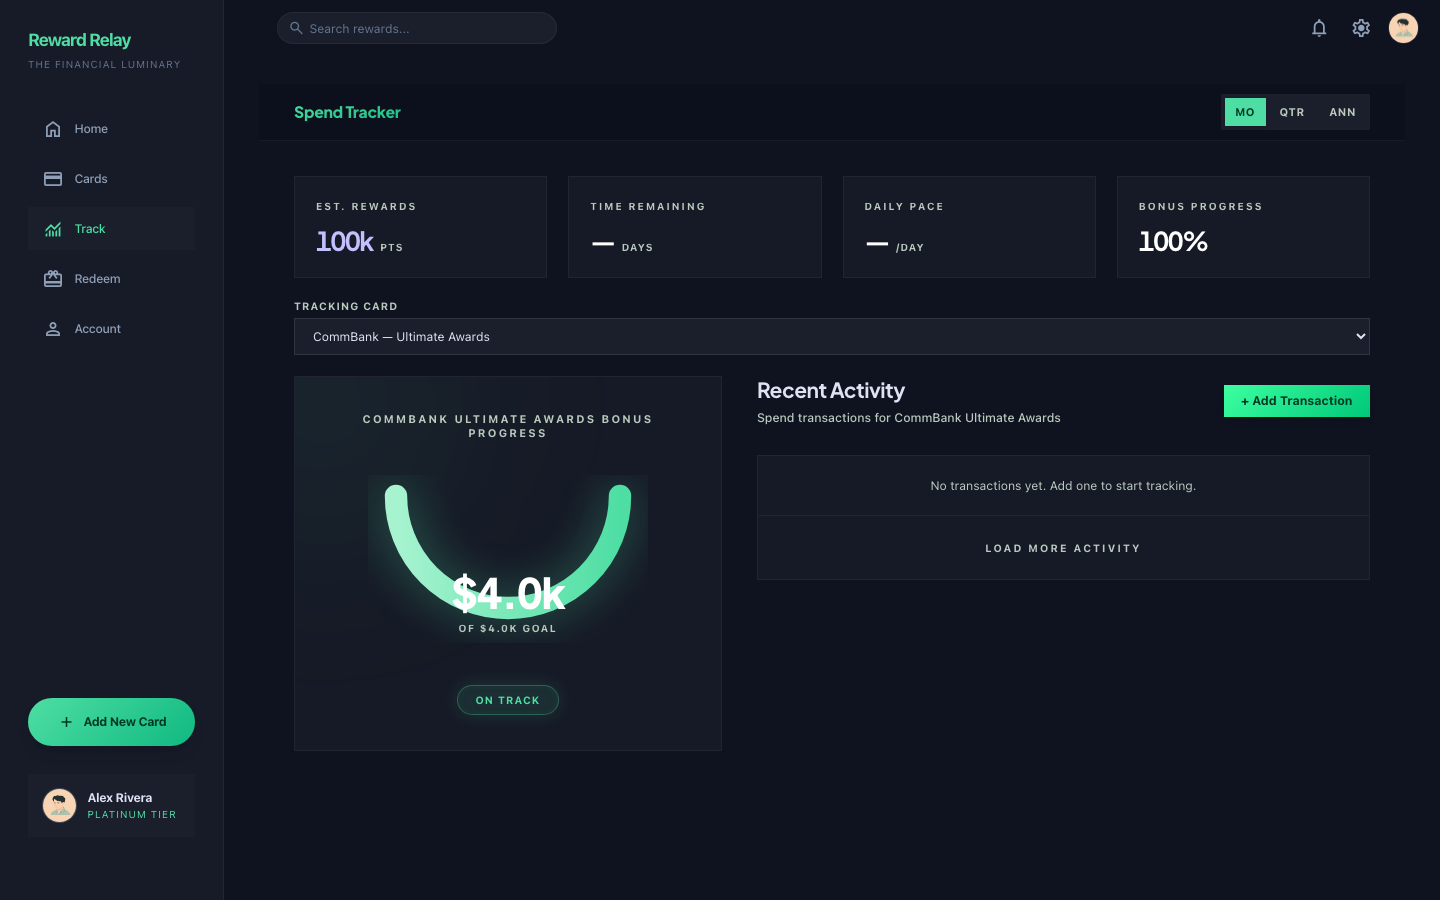
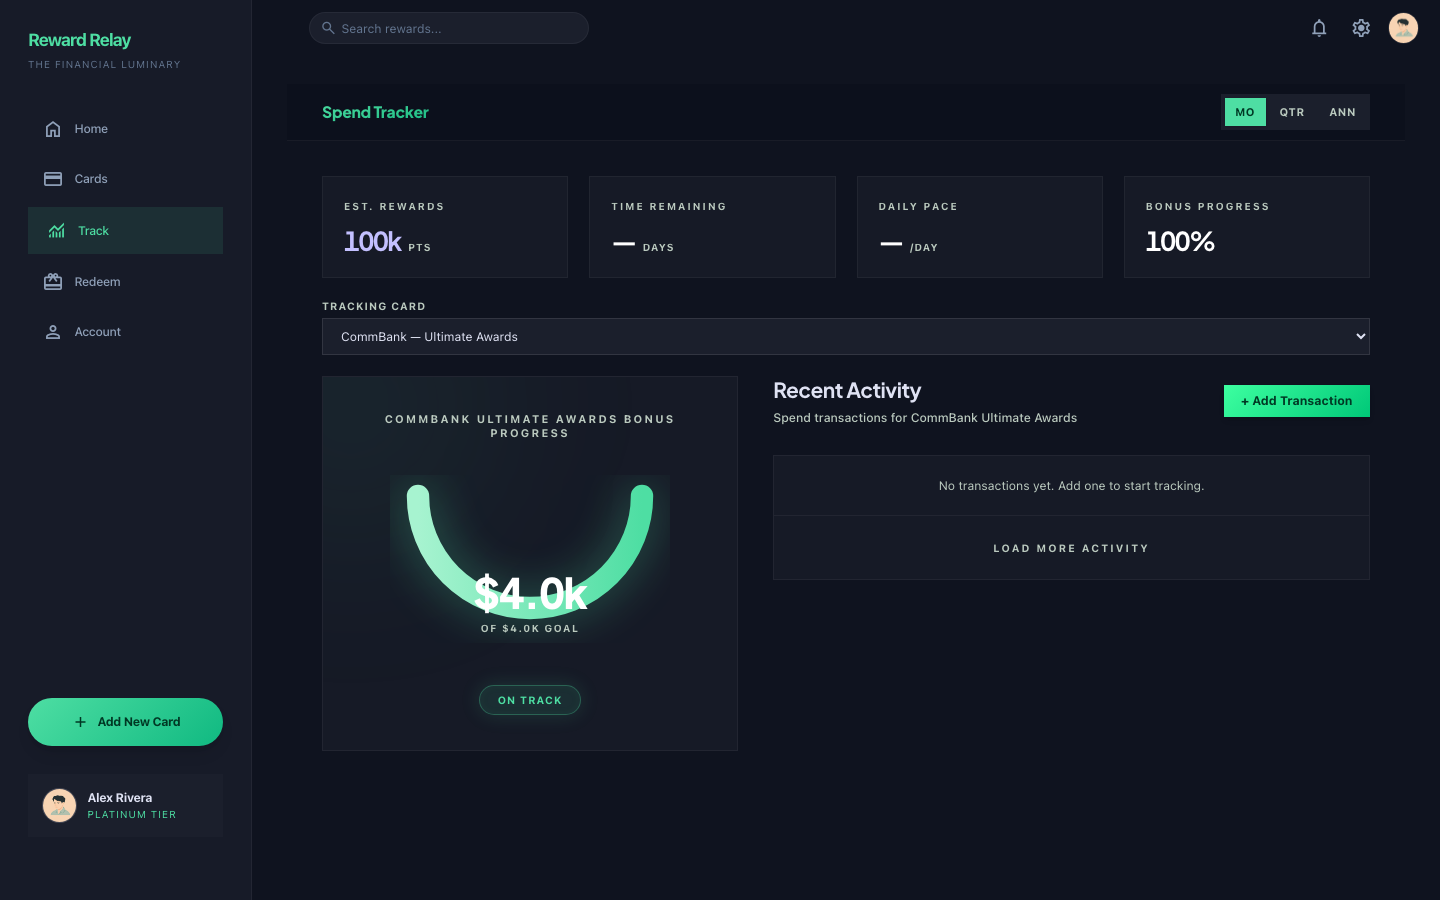
fix(spending): thinner arc strokes for elegant gauge appearance (#269)
* fix(spending): reduce arc stroke widths for elegant appearance

Desktop semicircle arc: track 6→3, fill 8→4
Mobile circular arc: track 10→5, fill 10→6, hover 12→7

* chore(screenshots): add PR review screenshots for spending, spending-mobile

---------

diff --git a/app/src/app/spending/page.tsx b/app/src/app/spending/page.tsx
@@ -67,8 +67,8 @@ function SpendArc({ spent, target }: { spent: number; target: number }) {
     >
       <style>{`
         .progress-arc-container:hover .progress-arc-path {
-          stroke-width: 12 !important;
-          filter: drop-shadow(0 0 12px rgba(78,222,163,0.6));
+          stroke-width: 7 !important;
+          filter: drop-shadow(0 0 10px rgba(78,222,163,0.6));
         }
         .progress-arc-container:hover .progress-center-amount {
           text-shadow: 0 0 15px rgba(255,255,255,0.2);
@@ -87,7 +87,7 @@ function SpendArc({ spent, target }: { spent: number; target: number }) {
           r={RADIUS}
           fill="none"
           stroke="rgba(255,255,255,0.1)"
-          strokeWidth={6}
+          strokeWidth={5}
           strokeDasharray={`${ARC_LENGTH} ${CIRCUMFERENCE - ARC_LENGTH}`}
           strokeLinecap="round"
           transform={`rotate(${rotation} ${center} ${center})`}
@@ -100,7 +100,7 @@ function SpendArc({ spent, target }: { spent: number; target: number }) {
           r={RADIUS}
           fill="none"
           stroke="#4edea3"
-          strokeWidth={8}
+          strokeWidth={6}
           strokeDasharray={`${filledLength} ${CIRCUMFERENCE - filledLength}`}
           strokeLinecap="round"
           transform={`rotate(${rotation} ${center} ${center})`}
@@ -537,18 +537,18 @@ export default function SpendingTrackerPage() {
                           <path
                             d="M 10 50 A 40 40 0 0 1 90 50"
                             fill="none"
-                            opacity="0.6"
-                            stroke="#262a37"
+                            opacity="0.5"
+                            stroke="rgba(255,255,255,0.08)"
                             strokeLinecap="round"
-                            strokeWidth="6"
+                            strokeWidth="3"
                           />
                           <path
                             d="M 10 50 A 40 40 0 0 1 90 50"
                             fill="none"
-                            stroke="#313442"
-                            strokeDasharray="0.5 7.5"
+                            stroke="rgba(255,255,255,0.04)"
+                            strokeDasharray="0.3 5"
                             strokeLinecap="round"
-                            strokeWidth="6"
+                            strokeWidth="3"
                           />
                           {(() => {
                             // Total arc path length for "M 10 50 A 40 40 0 0 1 90 50" ≈ 125.66
@@ -565,7 +565,7 @@ export default function SpendingTrackerPage() {
                                 stroke="url(#arc-gradient-spend)"
                                 strokeDasharray={`${filled} ${totalLen - filled}`}
                                 strokeLinecap="round"
-                                strokeWidth="8"
+                                strokeWidth="4"
                                 style={{ transition: "stroke-dasharray 600ms ease-out" }}
                               />
                             )
@@ -577,7 +577,7 @@ export default function SpendingTrackerPage() {
                             </linearGradient>
                           </defs>
                         </svg>
-                        <div className="absolute bottom-0 inset-x-0 flex flex-col items-center pb-2">
+                        <div className="absolute inset-x-0 top-[42%] -translate-y-1/2 flex flex-col items-center">
                           <span className="text-5xl font-headline font-extrabold tabular-nums tracking-tight text-white">
                             {formatCurrencyCompact(activeCard.current_spend)}
                           </span>
